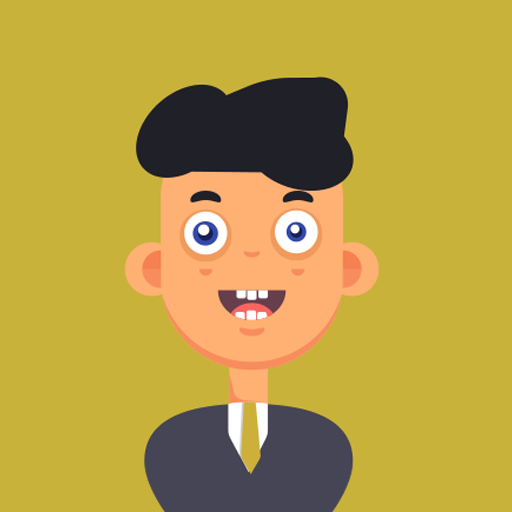
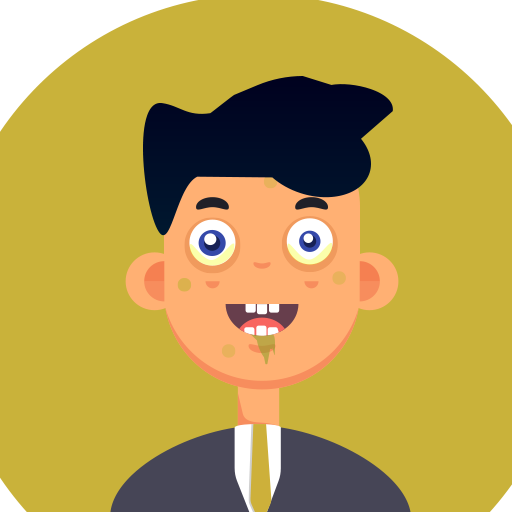
v0.3 demo: muziek per personage, welkom in drie delen, nieuwe portretten
Claude-Session: https://claude.ai/code/session_01NEvvhHiHvhoQiSX2zT3JR3

diff --git a/index.html b/index.html
@@ -287,7 +287,7 @@ body.hasM .choices .m{display:flex;flex-direction:column;align-items:center;just
 .ag-new p{margin:3px 0;font:400 12.5px/1.35 var(--f-body)}
 .ag-new{margin:6px 0 10px!important;padding:6px 9px!important}
 .gwelcome{background:radial-gradient(70% 50% at 50% 30%,rgba(122,156,150,.35),transparent 70%),radial-gradient(120% 80% at 50% 0%,#4a3a48,var(--night) 70%);place-items:center}
-.gw{width:min(420px,100%);text-align:center;color:#26303a;background:linear-gradient(180deg,rgba(236,241,243,.97),rgba(212,223,228,.97));border-radius:18px;padding:16px 18px 14px;box-shadow:0 0 50px rgba(200,225,235,.35),0 20px 50px rgba(0,0,0,.5);animation:materialize2 1.6s ease-out}
+.gw{max-height:calc(100dvh - 70px);overflow-y:auto;overscroll-behavior:contain;width:min(420px,100%);text-align:center;color:#26303a;background:linear-gradient(180deg,rgba(236,241,243,.97),rgba(212,223,228,.97));border-radius:18px;padding:16px 18px 14px;box-shadow:0 0 50px rgba(200,225,235,.35),0 20px 50px rgba(0,0,0,.5);animation:materialize2 1.6s ease-out}
 @keyframes materialize2{0%{opacity:0;filter:blur(10px);transform:translateY(14px) scale(.9)}60%{opacity:.65;filter:blur(2px)}100%{opacity:1;filter:none;transform:none}}
 .gw-ghost{width:96px;height:96px;margin:-58px auto 4px;border-radius:50%;background:rgba(122,156,150,.3);box-shadow:0 0 30px rgba(220,240,245,.6);animation:gfloat 3s ease-in-out infinite}
 .gw-ghost svg{width:100%;height:100%}
@@ -582,6 +582,8 @@ let PX={}, hist=[], warned={}, matchTotal=0, spawned=[], bonus=0, PL=1, inf=INFL
 let money=START_MONEY, heat=0, owned=[], promises=new Map(), S, deck, idx, day, busy=false, dayLog=[], usedWorld=[], pending=[], usedEv=[], dayStart=null, dayMatch=0, cause=null;
 const $=s=>document.querySelector(s);
 const stage=$('#stage'), layer=$('#layer');
+// back to the lobby lounge whenever a visitor's window closes
+new MutationObserver(()=>{if(!layer.innerHTML&&typeof SND!=='undefined'&&SND.theme)SND.theme('main');}).observe(layer,{childList:true});
 // Apply edits made in the control room (lines + own art). Keys: card:<id>, follow:<id>, char:<k>, event:<id>.
 // Text edits from the Regiekamer: first from overrides.js, then live from the game's own store (see bottom).
 function applyText(O){
@@ -648,17 +650,54 @@ const SND=(()=>{
   const noise=(t,d,g,from,to,type='bandpass')=>{const n=ctx.createBufferSource(),b=ctx.createBuffer(1,Math.ceil(ctx.sampleRate*d),ctx.sampleRate),c=b.getChannelData(0);
     for(let i=0;i<c.length;i++)c[i]=Math.random()*2-1;n.buffer=b;const f=ctx.createBiquadFilter();f.type=type;f.frequency.setValueAtTime(from,t);f.frequency.exponentialRampToValueAtTime(to,t+d);
     const a=ctx.createGain();a.gain.setValueAtTime(g,t);a.gain.exponentialRampToValueAtTime(.0001,t+d);n.connect(f);f.connect(a);a.connect(sfxGain);n.start(t);n.stop(t+d);};
-  // Music: a slow, slightly smug "lobby lounge" loop (Dm7 G7 Cmaj7 A7)
-  const CH=[[146.8,174.6,220,261.6],[196,246.9,293.7,349.2],[130.8,164.8,196,246.9],[110,138.6,164.8,196]];
-  const BASS=[73.4,98,65.4,55],BEAT=.5;
-  const sched=()=>{while(nextT<ctx.currentTime+.6){const bar=Math.floor(step/8)%4,b=step%8;
-      if(b===0)CH[bar].forEach((f,i)=>tone(f,nextT+i*.03,BEAT*7.5,'triangle',.05,musicGain));
-      if(b===0||b===3||b===4||b===6)tone(BASS[bar]*(b===6?1.5:1),nextT,BEAT*1.2,'sine',.16,musicGain);
-      if(b%2===1&&Math.random()<.55){const c=CH[bar];tone(c[(Math.random()*4)|0]*2,nextT,.35,'sine',.03,musicGain);}
-      step++;nextT+=BEAT;}};
+  // Music: themes. 'main' is the slow, slightly smug "lobby lounge" loop (Dm7 G7 Cmaj7 A7);
+  // every backroom/night visitor has a little tune of their own. Four chords, eight steps per chord.
+  const F=m=>440*Math.pow(2,(m-69)/12), C=(...m)=>m.map(F);
+  const THEMES={
+   main:{beat:.5,ch:[[146.8,174.6,220,261.6],[196,246.9,293.7,349.2],[130.8,164.8,196,246.9],[110,138.6,164.8,196]],bass:[73.4,98,65.4,55],pad:.05,wave:'triangle',mp:.55},
+   shady:{beat:.62,ch:[C(57,60,64,67),C(50,53,57,60),C(52,56,59,62),C(57,60,64,69)],bass:C(45,38,40,33),pad:.04,wave:'sine',walk:1,perc:'brush',mp:.35,mw:'triangle'},
+   fatcat:{beat:.36,ch:[C(58,62,65,69),C(55,58,62,65),C(60,63,67,70),C(53,57,60,63)],bass:C(46,43,48,41),pad:.045,wave:'triangle',walk:1,perc:'swing',mp:.5,mw:'square',mo:1},
+   suit:{beat:.42,ch:[C(60,64,67,71),C(57,60,64,67),C(53,57,60,64),C(55,59,62,64)],bass:C(48,45,41,43),pad:.04,wave:'sine',arp:1,mp:.2},
+   hippie:{beat:.45,ch:[C(55,59,62,67),C(60,64,67,72),C(62,66,69,74),C(55,59,62,67)],bass:C(43,48,50,43),pad:.045,wave:'triangle',perc:'tamb',mp:.6},
+   gamer:{beat:.28,ch:[C(60,64,67,72),C(55,59,62,67),C(57,60,64,69),C(53,57,60,65)],bass:C(48,43,45,41),pad:.025,wave:'square',arp:1,mp:.2,mw:'square'},
+   foreign:{beat:.5,ch:[C(62,65,69,74),C(55,58,62,67),C(57,61,64,67),C(62,65,69,74)],bass:C(38,43,45,38),pad:.045,wave:'triangle',mp:.6,mw:'sine',perc:'brush'},
+   mom:{beat:.4,ch:[C(65,69,72,77),C(58,62,65,70),C(60,64,67,72),C(65,69,72,77)],bass:C(41,46,48,41),pad:.045,wave:'triangle',mp:.5,perc:'tick'},
+   investigator:{beat:.56,ch:[C(60,63,67,72),C(56,60,63,68),C(53,56,60,65),C(55,59,62,67)],bass:C(36,32,29,31),pad:.04,wave:'sine',perc:'clock',mp:.25,mw:'triangle'},
+   angel:{beat:.9,ch:[C(72,76,79,83),C(65,69,72,76),C(69,72,76,79),C(67,72,74,79)],bass:C(48,41,45,43),pad:.04,wave:'sine',mp:.4,mo:2},
+   devil:{beat:.75,ch:[C(50,53,56,62),C(49,52,56,61),C(50,53,57,62),C(44,50,53,56)],bass:C(26,25,26,20),pad:.035,wave:'sawtooth',lp:1,mp:.15},
+   banker:{beat:.7,ch:[C(52,55,59,64),C(48,52,55,59),C(45,48,52,57),C(47,51,54,59)],bass:C(28,24,33,35),pad:.04,wave:'triangle',walk:1,mp:.25,mw:'sine'},
+   earth:{beat:.8,ch:[C(63,67,70,75),C(60,63,67,72),C(56,60,63,68),C(58,62,65,70)],bass:C(39,36,44,46),pad:.045,wave:'sine',mp:.65,mo:2,perc:'tamb'},
+   time:{beat:.5,ch:[C(57,60,64,69),C(53,57,60,65),C(60,64,67,72),C(55,59,62,67)],bass:C(45,41,48,43),pad:.04,wave:'triangle',perc:'clock',mp:.2},
+   justice:{beat:.7,ch:[C(50,53,57,62),C(46,50,53,58),C(53,57,60,65),C(57,61,64,69)],bass:C(38,34,41,45),pad:.035,wave:'square',lp:1,mp:.15},
+   ghost:{beat:.85,ch:[C(60,64,68,72),C(62,66,70,74),C(64,68,72,76),C(62,66,70,74)],bass:C(36,38,40,38),pad:.035,wave:'sine',mp:.5,mo:2,mw:'sine'},
+   socialist:{beat:.42,ch:[C(60,64,67,72),C(53,57,60,65),C(55,59,62,67),C(60,64,67,72)],bass:C(36,41,43,36),pad:.045,wave:'square',lp:1,perc:'march',mp:.3}};
+  let T=THEMES.main,curTheme='main';
+  const mnoise=(t,d,g,f,type='highpass')=>{const n=ctx.createBufferSource(),b=ctx.createBuffer(1,Math.ceil(ctx.sampleRate*d),ctx.sampleRate),c=b.getChannelData(0);
+    for(let i=0;i<c.length;i++)c[i]=Math.random()*2-1;n.buffer=b;const fl=ctx.createBiquadFilter();fl.type=type;fl.frequency.value=f;
+    const a=ctx.createGain();a.gain.setValueAtTime(g,t);a.gain.exponentialRampToValueAtTime(.0001,t+d);n.connect(fl);fl.connect(a);a.connect(musicGain);n.start(t);n.stop(t+d);};
+  const mtone=(f,t,d,type,g)=>{if(T.lp&&type!=='sine'){const o=ctx.createOscillator(),lp=ctx.createBiquadFilter(),a=ctx.createGain();o.type=type;o.frequency.value=f;lp.type='lowpass';lp.frequency.value=900;
+      a.gain.setValueAtTime(0,t);a.gain.linearRampToValueAtTime(g,t+.03);a.gain.exponentialRampToValueAtTime(.0001,t+d);o.connect(lp);lp.connect(a);a.connect(musicGain);o.start(t);o.stop(t+d+.05);return;}
+    tone(f,t,d,type,g,musicGain);};
+  const sched=()=>{const B=T.beat;while(nextT<ctx.currentTime+.6){const bar=Math.floor(step/8)%4,b=step%8,ch=T.ch[bar];
+      if(b===0)ch.forEach((f,i)=>mtone(f,nextT+i*.03,B*7.5,T.wave,T.pad));
+      if(T.walk){if(b%2===0)mtone(T.bass[bar]*[1,1.26,1.5,1.33][b/2],nextT,B*1.6,'sine',.15);}
+      else if(b===0||b===3||b===4||b===6)mtone(T.bass[bar]*(b===6?1.5:1),nextT,B*1.2,'sine',.16);
+      if(T.arp)mtone(ch[b%4]*2,nextT,B*.9,T.mw||'triangle',.03);
+      if(b%2===1&&Math.random()<T.mp)mtone(ch[(Math.random()*4)|0]*(T.mo||2),nextT,.35,T.mw||'sine',.03);
+      if(T.perc==='brush'&&b%2===0)mnoise(nextT,.12,.05,3000);
+      if(T.perc==='swing'&&(b%2===1||b===0))mnoise(nextT+(b%2?B*.15:0),.05,.06,6000);
+      if(T.perc==='tamb'&&b%2===1)mnoise(nextT,.08,.05,7000);
+      if(T.perc==='tick'&&b%2===0)mnoise(nextT,.02,.06,5000);
+      if(T.perc==='clock')mnoise(nextT,.015,b%2?.04:.08,b%2?4000:2500);
+      if(T.perc==='march'&&(b===2||b===6))mnoise(nextT,.14,.09,1800,'bandpass');
+      step++;nextT+=B;}};
+  const setTheme=k=>{const nk=THEMES[k]?k:'main';if(nk===curTheme)return;curTheme=nk;if(!ctx){T=THEMES[nk];return;}
+    const g=PREF.music?.11:0,now=ctx.currentTime;musicGain.gain.cancelScheduledValues(now);musicGain.gain.setTargetAtTime(0,now,.12);
+    setTimeout(()=>{if(curTheme!==nk)return;T=THEMES[nk];step=0;nextT=ctx.currentTime+.08;musicGain.gain.setTargetAtTime(PREF.music?.11:0,ctx.currentTime,.25);},450);};
   const startMusic=()=>{if(!ensure())return;if(ctx.state==='suspended')ctx.resume();if(timer)return;nextT=ctx.currentTime+.1;timer=setInterval(sched,150);};
   return{
     unlock(){if(ensure()&&ctx.state==='suspended')ctx.resume();startMusic();},
+    theme(k){setTheme(k);},
     setMusic(on){PREF.music=on;savePref();if(ctx)musicGain.gain.setTargetAtTime(on?.11:0,ctx.currentTime,.2);},
     setSfx(on){PREF.sfx=on;savePref();if(ctx)sfxGain.gain.setTargetAtTime(on?.5:0,ctx.currentTime,.05);},
     swipe(){if(!ctx||!PREF.sfx)return;noise(ctx.currentTime,.28,.5,2200,500);},
@@ -772,10 +811,14 @@ function ghostWelcome(next){
     <div class="gw-ghost">${CHARS.ghost.svg}</div>
     <div class="gw-kick">👻 A ghost appears</div>
     <h3 id="gw-h">${escH(W.head)}</h3>
-    ${['p1','p2','p3'].filter(k=>W[k]).map(k=>`<p>${N(W[k])}</p>`).join('')}
-    <button class="next" id="gw-go" type="button">${escH(W.go)}</button>
+    ${(()=>{const P=[['p1','p2'],['p3','p4','p5']].map(g=>g.filter(k=>W[k])).filter(g=>g.length);W._pages=P;
+      return P.map((g,n)=>`<div class="gw-pg" id="gw-p${n+1}"${n?' hidden':''}>${g.map(k=>`<p>${N(W[k])}</p>`).join('')}</div>`).join('');})()}
+    <button class="next" id="gw-go" type="button">${W._pages.length>1?escH(W.next||'Next →'):escH(W.go)}</button>
     <button class="gw-skip" id="gw-skip" type="button">I know the game, no tips please</button></div></div>`;
-  $('#gw-go').onclick=next;
+  const total=W._pages.length;let pg=1;
+  $('#gw-go').onclick=()=>{if(pg<total){$('#gw-p'+pg).hidden=true;pg++;$('#gw-p'+pg).hidden=false;SND.paper&&SND.paper();
+      $('#gw-h').hidden=true;$('.gw-kick').textContent=(pg===2?W.kick2:W.kick3)||'👻 One more thing';
+      $('#gw-go').textContent=pg<total?(W.next||'Next →'):W.go;$('#gw-go').focus({preventScroll:true});return;}next();};
   $('#gw-skip').onclick=()=>{PREF.tips=false;if(!GERARD_ALWAYS)savePref();next();};
   $('#gw-go').focus({preventScroll:true});
 }
@@ -992,7 +1035,7 @@ function pickPact(){
   const pool=PACTS.filter(p=>!PX.used.includes(p.id)&&(p.kind!=='contract'||deck.filter((d,k)=>k>=idx&&fits(d)).length>=2));
   return pool.length?pool[Math.floor(Math.random()*pool.length)]:null;}
 function pactOffer(p,nextDay){
-  SND.chime();tip('pact','top');PX.used.push(p.id);const ch=CHARS[p.char],tom=day+1;
+  SND.theme&&SND.theme(p.char);SND.chime();tip('pact','top');PX.used.push(p.id);const ch=CHARS[p.char],tom=day+1;
   layer.innerHTML=`<div class="veil letter night"><div class="modal evt" role="dialog" aria-modal="true" aria-labelledby="pk-t">
     <div class="kicker">Day ${day} · midnight</div>
     <h3 id="pk-t">Someone is sitting in your chair…</h3>
@@ -1382,7 +1425,7 @@ function eveningPaper(diff,last,done){
     b.focus({preventScroll:true});};
   if(!pages.length){done();return;}
   show();
-  tip('paper','top');if(day>=UNLOCK.inflation)tip('inflation','top');if(w)tip('world','top');
+  if(day>=UNLOCK.inflation)tip('inflation','top');if(w)tip('world','top');
 }
 function world(next){
   if(PX.unrest>0&&Math.random()<Math.min(.8,.25*PX.unrest)){PX.unrest=Math.max(0,PX.unrest-2);return showWorld(RIOT,next);}
@@ -1411,7 +1454,7 @@ function invDue(last){if(last||typeof INVESTIGATOR==='undefined'||day<INVESTIGAT
   const low=STATS.filter(s=>(PX.low||{})[s.k]>=INVESTIGATOR.days).sort((a,b)=>S[a.k]-S[b.k]);return low.length?low[0].k:null;}
 function investigate(k,next){
   const I=INVESTIGATOR,st=STATS.find(s=>s.k===k),ch=CHARS.investigator,sc=INV_SCANDALS[Math.floor(Math.random()*INV_SCANDALS.length)],client=INV_CLIENTS[k]||'Someone';
-  PX.invDay=day;PX.low[k]=0;SND.knock&&SND.knock();const can=money>=I.cost;
+  PX.invDay=day;PX.low[k]=0;SND.theme&&SND.theme('investigator');SND.knock&&SND.knock();const can=money>=I.cost;
   layer.innerHTML=`<div class="veil letter"><div class="modal evt" role="dialog" aria-modal="true" aria-labelledby="inv-t">
     <div class="kicker">Day ${day} · late evening · a knock on the door</div>
     <h3 id="inv-t">Someone has been digging…</h3>
@@ -1431,7 +1474,7 @@ function investigate(k,next){
     const b=$('#cont');b.textContent='Next morning →';b.focus({preventScroll:true});b.onclick=()=>{layer.innerHTML='';next();};};
 }
 function offer(ev,nextDay){
-  SND.chime();tip('offer','top');
+  SND.theme&&SND.theme(EVCHAR[ev.id]);SND.chime();tip('offer','top');
   usedEv.push(ev.id);const ch=CHARS[EVCHAR[ev.id]];
   layer.innerHTML=`<div class="veil letter"><div class="modal evt" role="dialog" aria-modal="true" aria-labelledby="ev-t">
     <div class="kicker">Day ${day} · The backroom deal</div>
@@ -1640,7 +1683,7 @@ function revealSecret(k,then){
   if(secrets().includes(k)){if(then)then();return;}
   if(!then&&(layer.innerHTML||tipModal()||!$('#top'))){setTimeout(()=>revealSecret(k),600);return;}
   const S0=SECRETS[k],ch=CHARS[S0.char],F=FUTURES.find(f=>f.id===k);if(!ch||!F)return;
-  secrets().push(k);SND.chime&&SND.chime();
+  secrets().push(k);SND.theme&&SND.theme(S0.char);SND.chime&&SND.chime();
   layer.innerHTML=`<div class="veil letter"><div class="modal evt secret" role="dialog" aria-modal="true" aria-labelledby="sec-t">
     <div class="kicker">Day ${day} · ${then?'Evening · a note under your door':'Overheard in the corridor'}</div>
     <h3 id="sec-t">${then?'Someone knocks after dark…':ch.name+' leans in…'}</h3>

diff --git a/data.js b/data.js
@@ -1,5 +1,5 @@
 // Build version: shown on the title screen. Raised with every build ("zet het online").
-const GAME_VERSION='v0.2 demo';
+const GAME_VERSION='v0.3 demo';
 // Swipe & Lobby — all game content in one place.
 // The game (index.html) and the control room (regiekamer.html) both read this file.
 // Effects are always [Economy, Climate, Trust, Corporate Power].
@@ -673,7 +673,11 @@ const GERARD_WELCOME={
  head:'Boooo!',
  p1:'… Sorry. Old habit. You read that letter right, {name}: this building is haunted. By me. I’m Gerard Loby. I had this job before you: lobbyist first, then Commissioner. I didn’t make it to the end of my term. Let’s just say it ended badly.',
  p2:'Here’s how it works. Every day four lobbyists come in. Swipe right to approve, left to reject. Keep the four bars away from empty and full, or you’re out. Like me.',
- p3:'I’m stuck haunting this office anyway, so I’ll whisper tips along the way.',
+ p3:'Every dossier on your desk is real. The EU keeps the records itself: the laws in EUR-Lex, and who came lobbying in the EU Transparency Register. And some files come from the darker corners. Watchdogs like LobbyFacts, LobbyControl and Corporate Europe Observatory dig through the paperwork the lobbyists would rather you didn’t read.',
+ next:'Next →',
+ kick2:'👻 Where the files come from',
+ p4:'', // (removed: the “two dimensions” paragraph; fill in again to bring it back)
+ p5:'I’m stuck haunting this office anyway, so I’ll whisper tips along the way.',
  go:'Nice to meet you, Gerard Loby'
 };
 // For now (demo/testing): Gerard always shows his full welcome and all tips again in every new game.

diff --git a/overrides.js b/overrides.js
@@ -12,6 +12,7 @@ const OVERRIDES={
 };
 const ART={
  'person:dr-harald-weedburn':'art/person-dr-harald-weedburn.png',
+ 'person:klaus-dieselhoff':'art/person-klaus-dieselhoff.png',
  'sector:AGRO':'art/sector-AGRO.png',
  'sector:AUTO':'art/sector-AUTO.png',
  'sector:BANK':'art/sector-BANK.png',

diff --git a/CHANGELOG.md b/CHANGELOG.md
@@ -1,5 +1,16 @@
 # Swipe & Lobby — changelog
 
+## v0.3 demo (8 oktober 2026)
+
+**Nieuw**
+- Elk personage heeft een eigen deuntje tijdens backroom deals, nachtbezoeken en geheimen: van noir-jazz voor de Man in the Raincoat tot een mars voor de Socialist. Daarna komt de gewone lobbymuziek terug.
+- Het welkom van Gerard bestaat nu uit drie pagina's: wie hij is en hoe het spel werkt, waar de dossiers vandaan komen (EUR-Lex, het EU Transparency Register, LobbyFacts, LobbyControl en Corporate Europe Observatory) en het vreemde gebouw met twee werelden.
+- Nieuwe portretten: Dr. Harald Weedburn (nieuwe versie) en Klaus Dieselhoff.
+
+**Verbeterd**
+- Lobbyist-portretten worden automatisch op dezelfde hoogte gezet.
+- Gerards uitleg bij de eerste avondkrant is weg, omdat het welkom dat nu vertelt.
+
 ## v0.2 demo (8 oktober 2026)
 
 **Nieuw**
